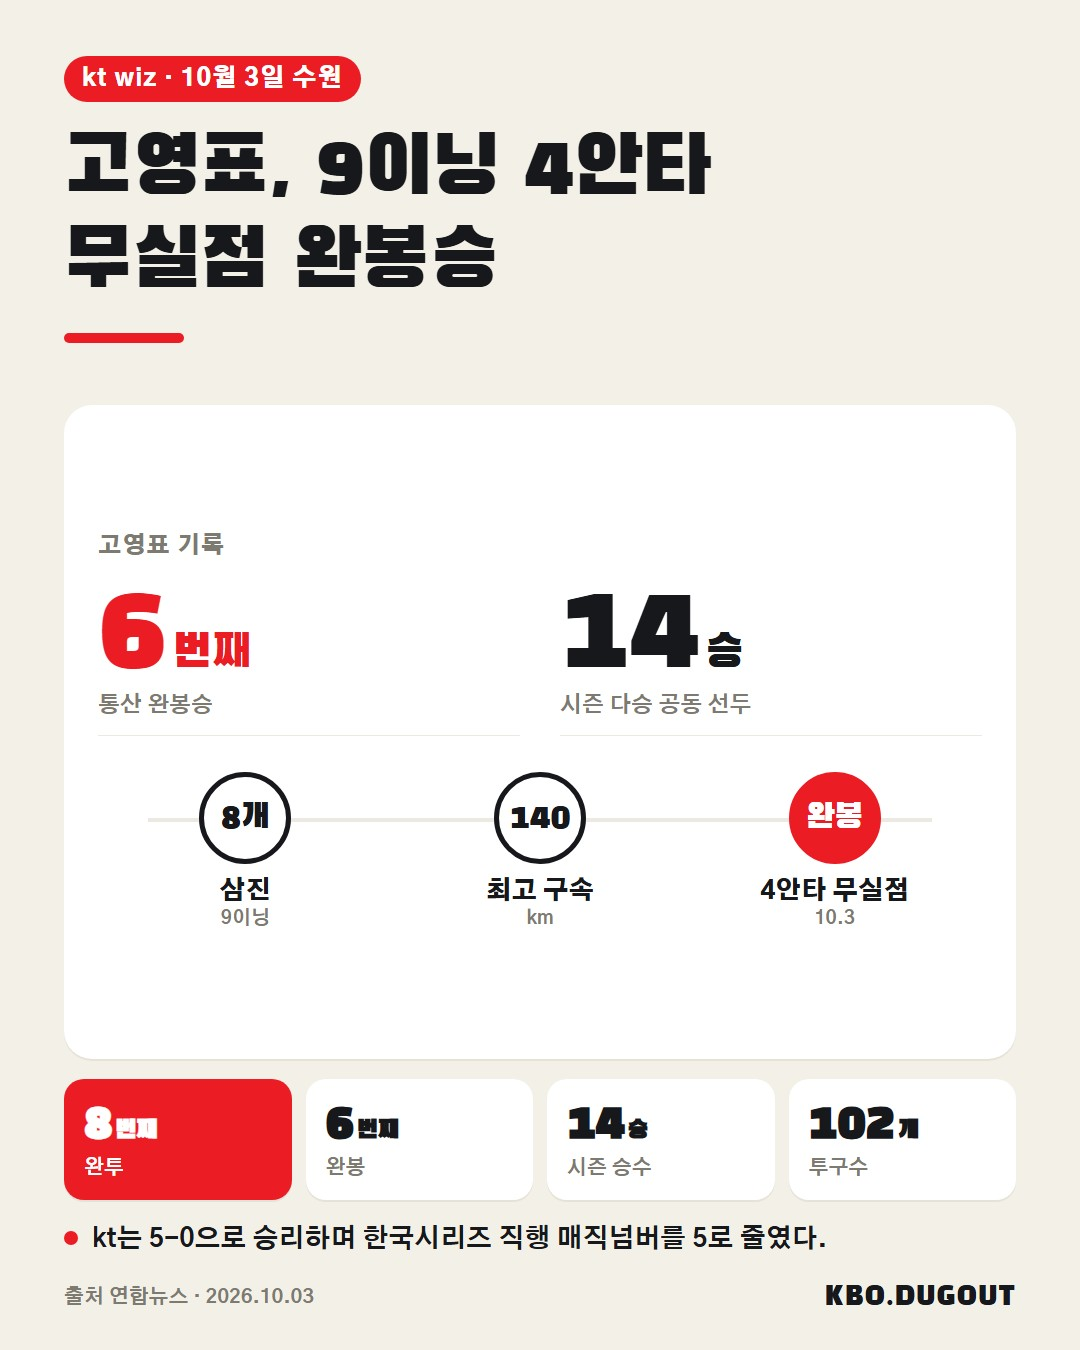
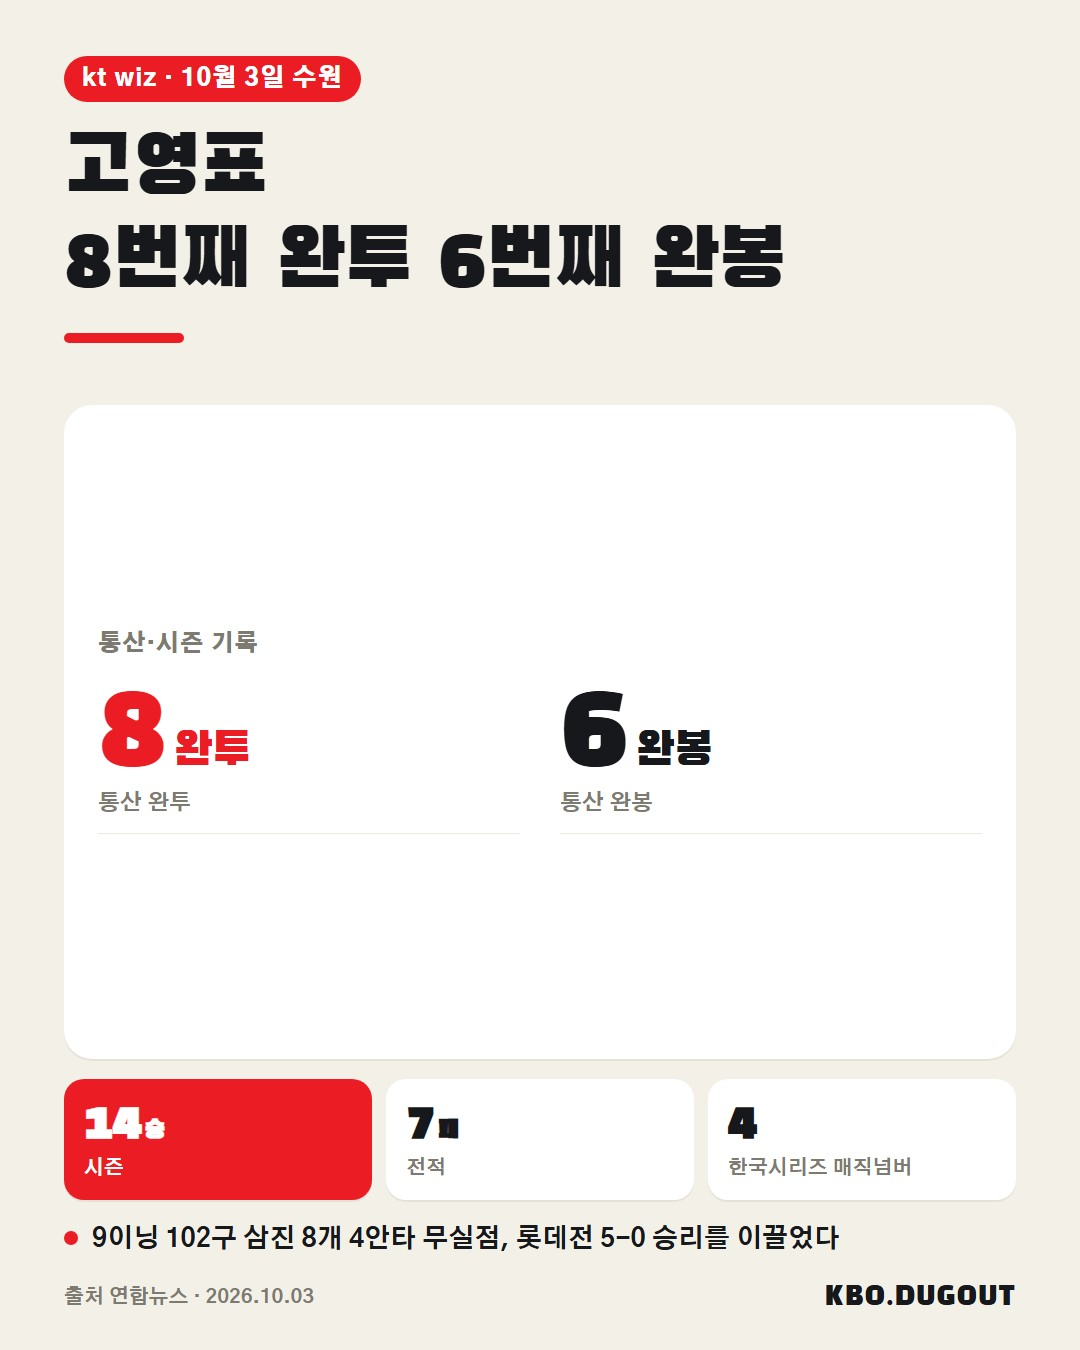
chore: publish review batch 388dcc3e0e0d

diff --git a/review/2026-10-03-388dcc3e0e0d.html b/review/2026-10-03-388dcc3e0e0d.html
@@ -1,0 +1,37 @@
+<!doctype html>
+<html lang="ko">
+<head>
+  <meta charset="utf-8">
+  <meta name="viewport" content="width=device-width, initial-scale=1">
+  <title>콘텐츠 검토</title>
+  <style>
+    * { box-sizing: border-box; }
+    body { margin: 0; background: #f3efe4; color: #182126; font-family: sans-serif; }
+    main { width: min(100%, 720px); margin: auto; padding: 24px 16px 48px; }
+    article { margin: 0 0 32px; padding-bottom: 32px; border-bottom: 1px solid #aaa397; }
+    .carousel { display: grid; gap: 12px; }
+    img { display: block; width: 100%; max-width: 100%; height: auto; }
+    .meta { color: #5f625e; font-size: .85rem; }
+    .body { white-space: pre-wrap; line-height: 1.65; }
+    .qa { padding: 12px; background: #e5ded0; }
+  </style>
+</head>
+<body><main><h1>콘텐츠 검토</h1><article>
+  <p class="meta">Draft #127</p>
+  <div class="carousel">
+
+  </div>
+  <p class="body">고영표 개인 통산 8번째 완투, 6번째 완봉으로 시즌 첫 완봉승
+14승으로 임찬규·최민석과 공동 선두, 매직넘버 4(삼성전 결과 따라 3으로도 줄 수 있음)</p>
+  <p class="qa"><strong>QA</strong> 출처와 사실이 다를 수 있음</p>
+</article>
+<article>
+  <p class="meta">Draft #128</p>
+  <div class="carousel">
+    <img src="../cards/draft-128-01.png" alt="Draft #128 카드 1">
+  </div>
+  <p class="body">고영표, 롯데전 9이닝 4안타 무실점으로 개인 통산 8번째 완투이자 6번째 완봉승. 시즌 14승째로 다승 공동 선두에 올랐고 kt는 5-0 승리로 한국시리즈 직행 매직넘버를 4로 줄였다.
+#KBO #프로야구 #야구 #고영표 #KT위즈</p>
+  <p class="qa"><strong>QA</strong> AI 검수 실패</p>
+</article></main></body>
+</html>
